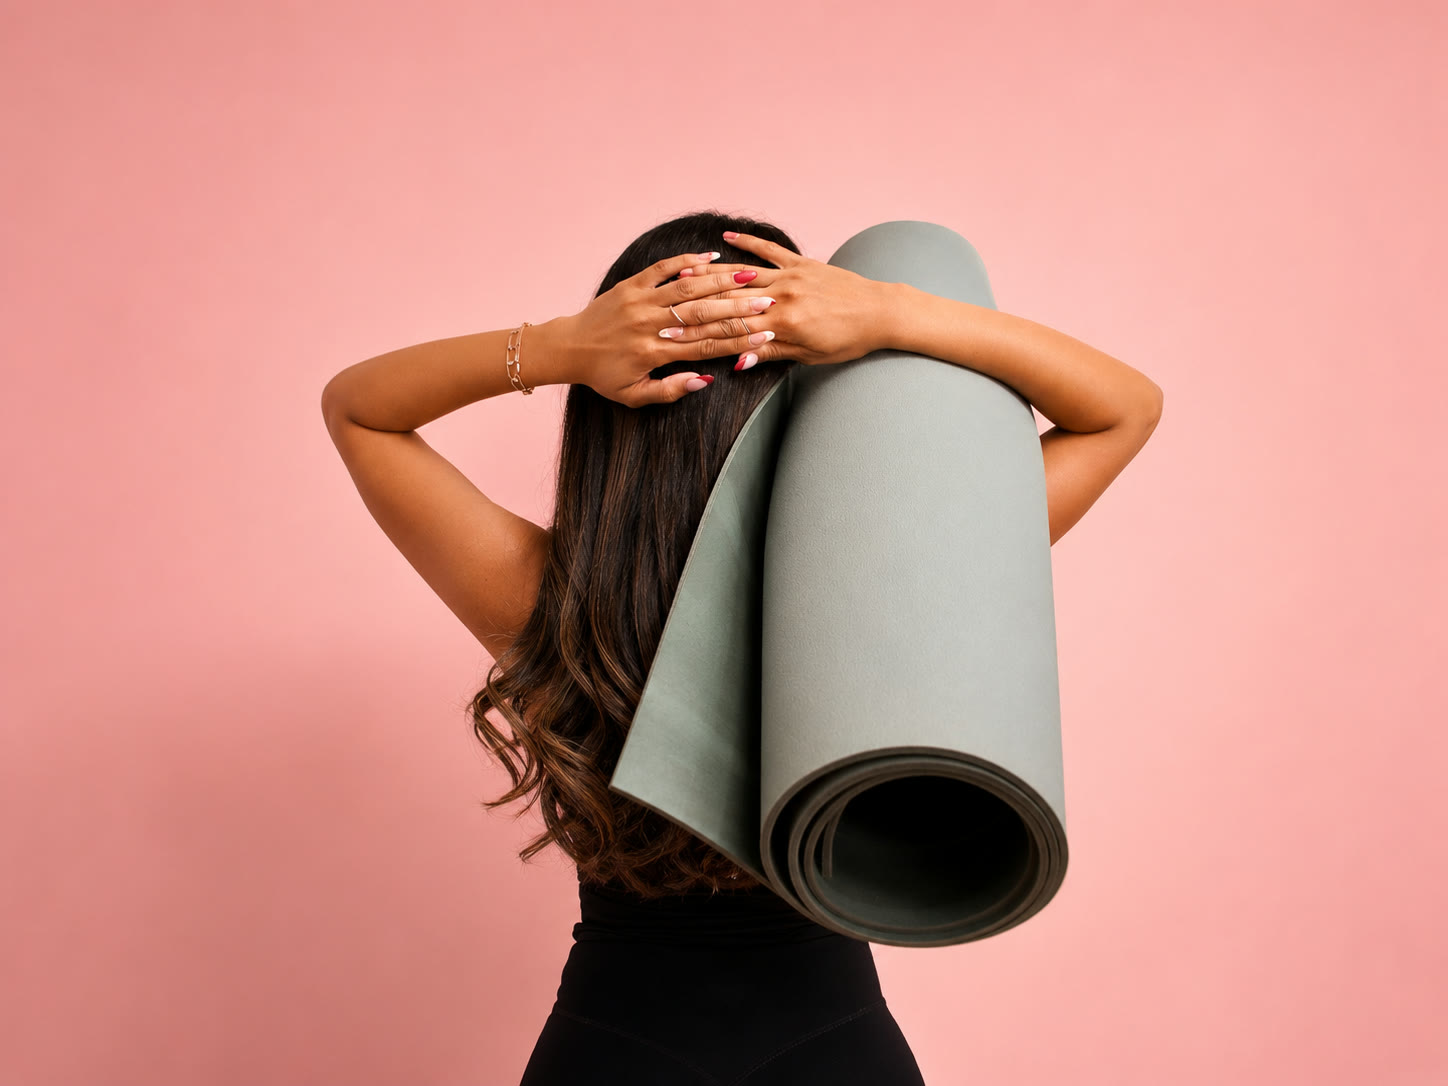
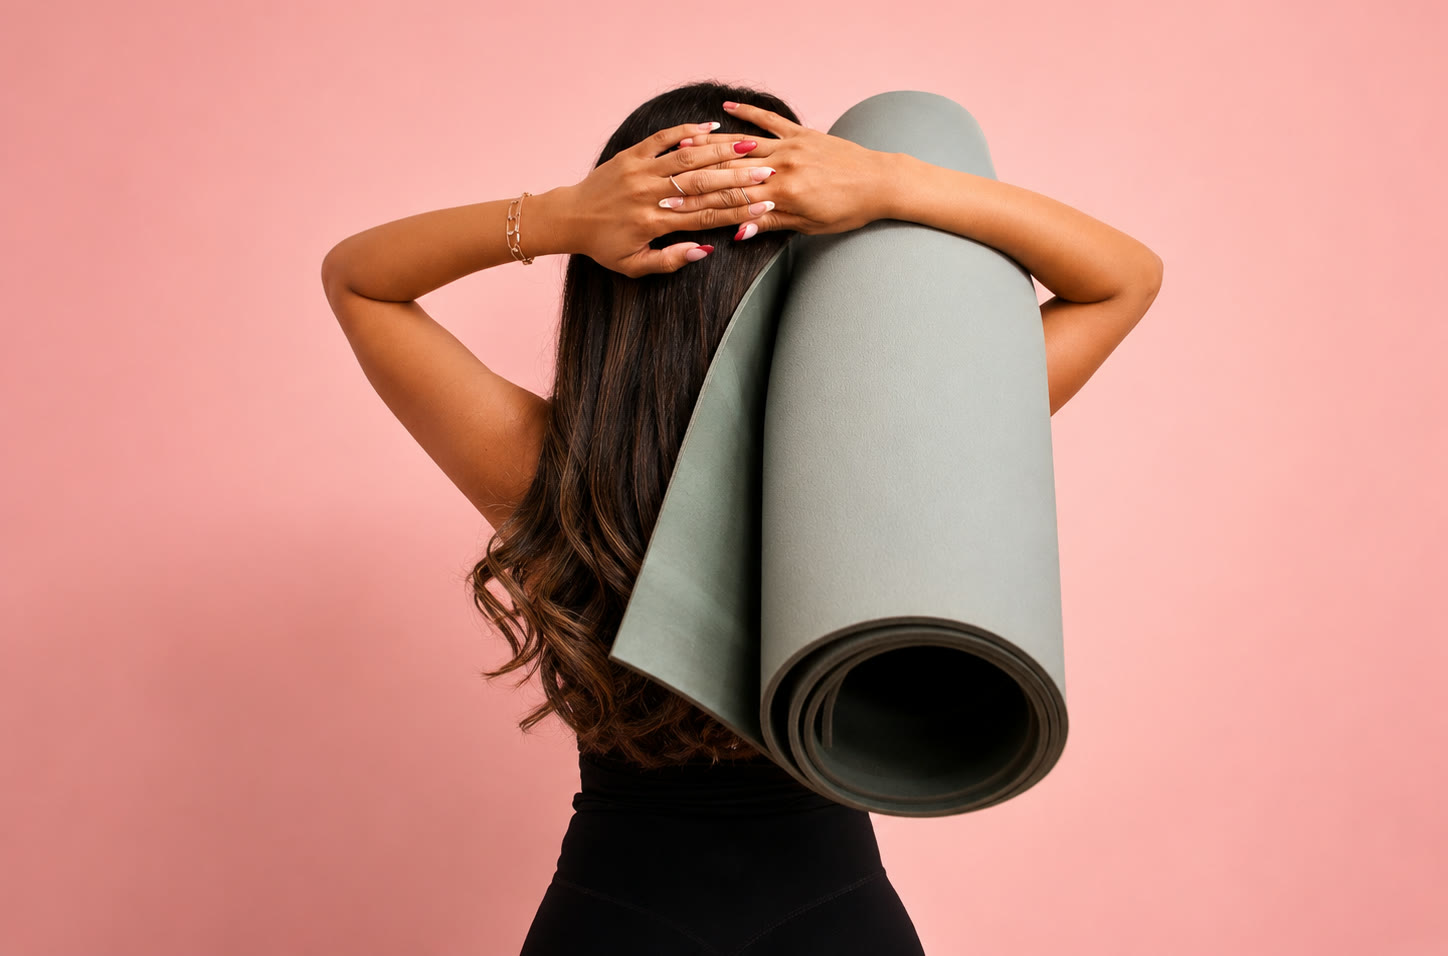
Crop lifestyle photo top; equalize space above/below the image
Trim 130px of pink backdrop above her head. Zero the section's bottom
padding and set the photo's top margin to the footer-margin clamp so
the cream gap above and below the image both measure the same (71px at
desktop). Bump asset versions.

Changed region(s): [[0.2175, 0.0607, 0.808, 0.9404]]

diff --git a/early-access.html b/early-access.html
@@ -20,7 +20,7 @@
       href="https://fonts.googleapis.com/css2?family=Inter:wght@400;500;600;700;800&display=swap"
       rel="stylesheet"
     />
-    <link rel="stylesheet" href="./styles.css?v=20260721-4" />
+    <link rel="stylesheet" href="./styles.css?v=20260721-5" />
   </head>
   <body>
     <header class="site-header">
@@ -162,7 +162,7 @@
           </div>
           </div>
           <div class="access-photo">
-            <img src="./assets/mat-lifestyle.jpg?v=2" alt="A woman holding a rolled FormAlign mat over her shoulder" loading="lazy" />
+            <img src="./assets/mat-lifestyle.jpg?v=3" alt="A woman holding a rolled FormAlign mat over her shoulder" loading="lazy" />
           </div>
         </div>
       </section>
@@ -209,6 +209,6 @@
       </div>
     </footer>
 
-    <script src="./script.js?v=20260721-4" defer></script>
+    <script src="./script.js?v=20260721-5" defer></script>
   </body>
 </html>

diff --git a/about.html b/about.html
@@ -20,7 +20,7 @@
       href="https://fonts.googleapis.com/css2?family=Inter:wght@400;500;600;700;800&display=swap"
       rel="stylesheet"
     />
-    <link rel="stylesheet" href="./styles.css?v=20260721-4" />
+    <link rel="stylesheet" href="./styles.css?v=20260721-5" />
   </head>
   <body>
     <header class="site-header">
@@ -165,6 +165,6 @@
       </div>
     </footer>
 
-    <script src="./script.js?v=20260721-4" defer></script>
+    <script src="./script.js?v=20260721-5" defer></script>
   </body>
 </html>

diff --git a/how-it-works.html b/how-it-works.html
@@ -20,7 +20,7 @@
       href="https://fonts.googleapis.com/css2?family=Inter:wght@400;500;600;700;800&display=swap"
       rel="stylesheet"
     />
-    <link rel="stylesheet" href="./styles.css?v=20260721-4" />
+    <link rel="stylesheet" href="./styles.css?v=20260721-5" />
   </head>
   <body>
     <header class="site-header">
@@ -249,6 +249,6 @@
       </div>
     </footer>
 
-    <script src="./script.js?v=20260721-4" defer></script>
+    <script src="./script.js?v=20260721-5" defer></script>
   </body>
 </html>

diff --git a/index.html b/index.html
@@ -20,7 +20,7 @@
       href="https://fonts.googleapis.com/css2?family=Inter:wght@400;500;600;700;800&display=swap"
       rel="stylesheet"
     />
-    <link rel="stylesheet" href="./styles.css?v=20260721-4" />
+    <link rel="stylesheet" href="./styles.css?v=20260721-5" />
   </head>
   <body>
     <header class="site-header">
@@ -254,6 +254,6 @@
       </div>
     </footer>
 
-    <script src="./script.js?v=20260721-4" defer></script>
+    <script src="./script.js?v=20260721-5" defer></script>
   </body>
 </html>

diff --git a/privacy.html b/privacy.html
@@ -13,7 +13,7 @@
       href="https://fonts.googleapis.com/css2?family=Inter:wght@400;500;600;700;800&display=swap"
       rel="stylesheet"
     />
-    <link rel="stylesheet" href="./styles.css?v=20260721-4" />
+    <link rel="stylesheet" href="./styles.css?v=20260721-5" />
   </head>
   <body>
     <header class="site-header">
@@ -122,6 +122,6 @@
       </div>
     </footer>
 
-    <script src="./script.js?v=20260721-4" defer></script>
+    <script src="./script.js?v=20260721-5" defer></script>
   </body>
 </html>

diff --git a/progress.html b/progress.html
@@ -20,7 +20,7 @@
       href="https://fonts.googleapis.com/css2?family=Inter:wght@400;500;600;700;800&display=swap"
       rel="stylesheet"
     />
-    <link rel="stylesheet" href="./styles.css?v=20260721-4" />
+    <link rel="stylesheet" href="./styles.css?v=20260721-5" />
   </head>
   <body>
     <header class="site-header">
@@ -241,6 +241,6 @@
       </div>
     </footer>
 
-    <script src="./script.js?v=20260721-4" defer></script>
+    <script src="./script.js?v=20260721-5" defer></script>
   </body>
 </html>

diff --git a/styles.css b/styles.css
@@ -831,7 +831,7 @@ section.tight { padding: clamp(3rem, 6vw, 4.5rem) 0; }
 .access-hero {
   display: flex;
   align-items: center;
-  padding: clamp(3rem, 6vw, 5rem) 0;
+  padding: clamp(3rem, 6vw, 5rem) 0 0;
 }
 .access-grid {
   display: grid;
@@ -841,7 +841,7 @@ section.tight { padding: clamp(3rem, 6vw, 4.5rem) 0; }
   width: 100%;
 }
 .access-photo {
-  margin-top: clamp(2.5rem, 5vw, 4rem);
+  margin-top: clamp(3rem, 6vw, 5rem);
   width: 100%;
   border-radius: var(--radius);
   overflow: hidden;